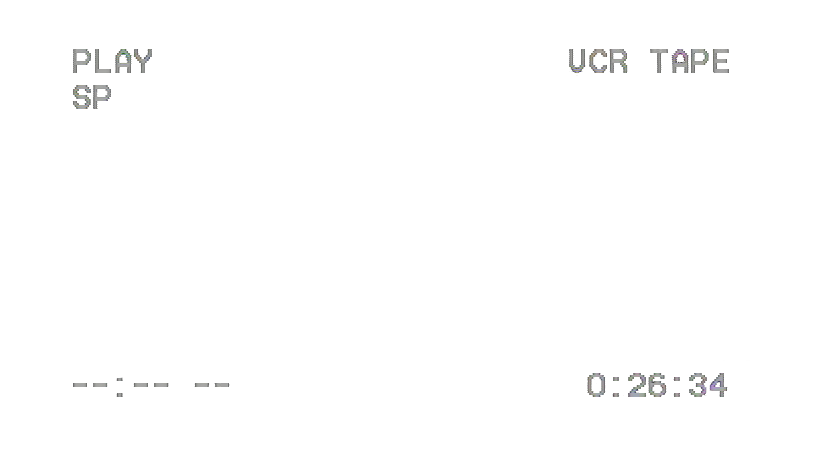
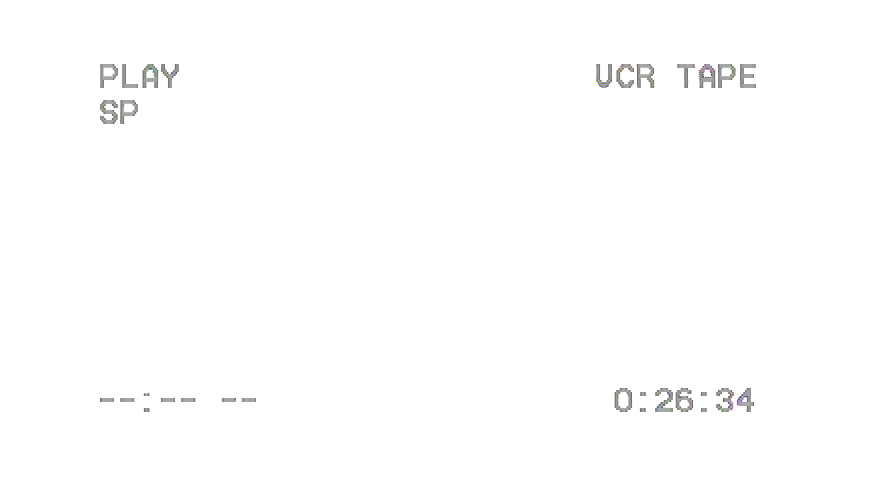
Added vcr overlay

diff --git a/utilities/Game.js b/utilities/Game.js
@@ -216,10 +216,9 @@ class Game {
     this.composer = new EffectComposer(this.renderer);
 
     //Shader uniform composer
-    this.shaderTime = 0.0;
-    this.vhsUniforms = vhsScanlines.uniforms;
-    this.staticUniforms = vhsStatic.uniforms;
-    //document.getElementById('overlay').style.display = 'block';
+    //this.shaderTime = 0.0;
+    //this.vhsUniforms = vhsScanlines.uniforms;
+    //this.staticUniforms = vhsStatic.uniforms;
 
 
     this.stats = new Stats();
@@ -482,6 +481,7 @@ class Game {
     this.controls.addEventListener("unlock", () => {
       this.controls.enabled = false;
       instructions.style.display = null;
+      overlay.style.display = "none";
     });
 
     characterBody.position.set(10, radius / 2, 55);
@@ -1017,10 +1017,10 @@ class Game {
     }
 
     //Update shader time value
-    this.shaderTime = this.shaderTime + 0.025;
-    this.vhsUniforms.time.value = this.shaderTime;
-    this.staticUniforms.time.value = this.shaderTime;
-    console.log(this.vhsUniforms.time.value, this.staticUniforms.time.value);
+    //this.shaderTime = this.shaderTime + 0.025;
+    //this.vhsUniforms.time.value = this.shaderTime;
+    //this.staticUniforms.time.value = this.shaderTime;
+    //console.log(this.vhsUniforms.time.value, this.staticUniforms.time.value);
   }
 
   /**

diff --git a/levels/First-Year/First-Year.js b/levels/First-Year/First-Year.js
@@ -35,16 +35,16 @@ class FirstLevel extends Game {
     this.nextLevel = "/levels/Second-Year/Second-Year.html";
     this.restartLevel = "/levels/First-Year/First-Year.html";
     // Add Post-Processing Effects
-    // this._PostProcessing();
+    this._PostProcessing();
   }
   _PostProcessing() {
     this.composer.addPass(new RenderPass(this.scene, this.camera));
 
-    const film = new FilmPass(1);
-    this.composer.addPass(film);
+    //const film = new FilmPass(1);
+    //this.composer.addPass(film);
 
-    // const effectVHSScanlines = new ShaderPass(vhsScanlines);
-    // this.composer.addPass(effectVHSScanlines);
+    const effectVHSScanlines = new ShaderPass(vhsScanlines);
+    this.composer.addPass(effectVHSScanlines);
 
     //const hurt = new ShaderPass(hurtPlayer);
     //this.composer.addPass(hurt);
@@ -64,6 +64,7 @@ class FirstLevel extends Game {
     // vignette.uniforms["softness"].value = 0.3; // default is 0.3
     // vignette.uniforms["gain"].value = 0.3; // default is 0.9
     //this.composer.addPass(redVignette);
+    document.getElementById('overlay').style.display = 'block';
 
     const outputPass = new OutputPass();
     this.composer.addPass(outputPass);

diff --git a/levels/First-Year/First-Year.html b/levels/First-Year/First-Year.html
@@ -181,9 +181,6 @@
     </style>
   </head>
   <body>
-    <div id="overlay" style="display: none;">
-      <img src="../../assets/images/VCR-Overlay.png" alt="Overlay Image" />
-    </div>
     <div class="vertical-section">
       <div id="instructions">
         <div class="column" id="objective-container">
@@ -259,5 +256,8 @@
         }
       });
     </script>
+    <div id="overlay" style="pointer-events: none; display: none;">
+      <img src="../../assets/images/VCR-Overlay.png" alt="Overlay Image" />
+    </div>
   </body>
 </html>
